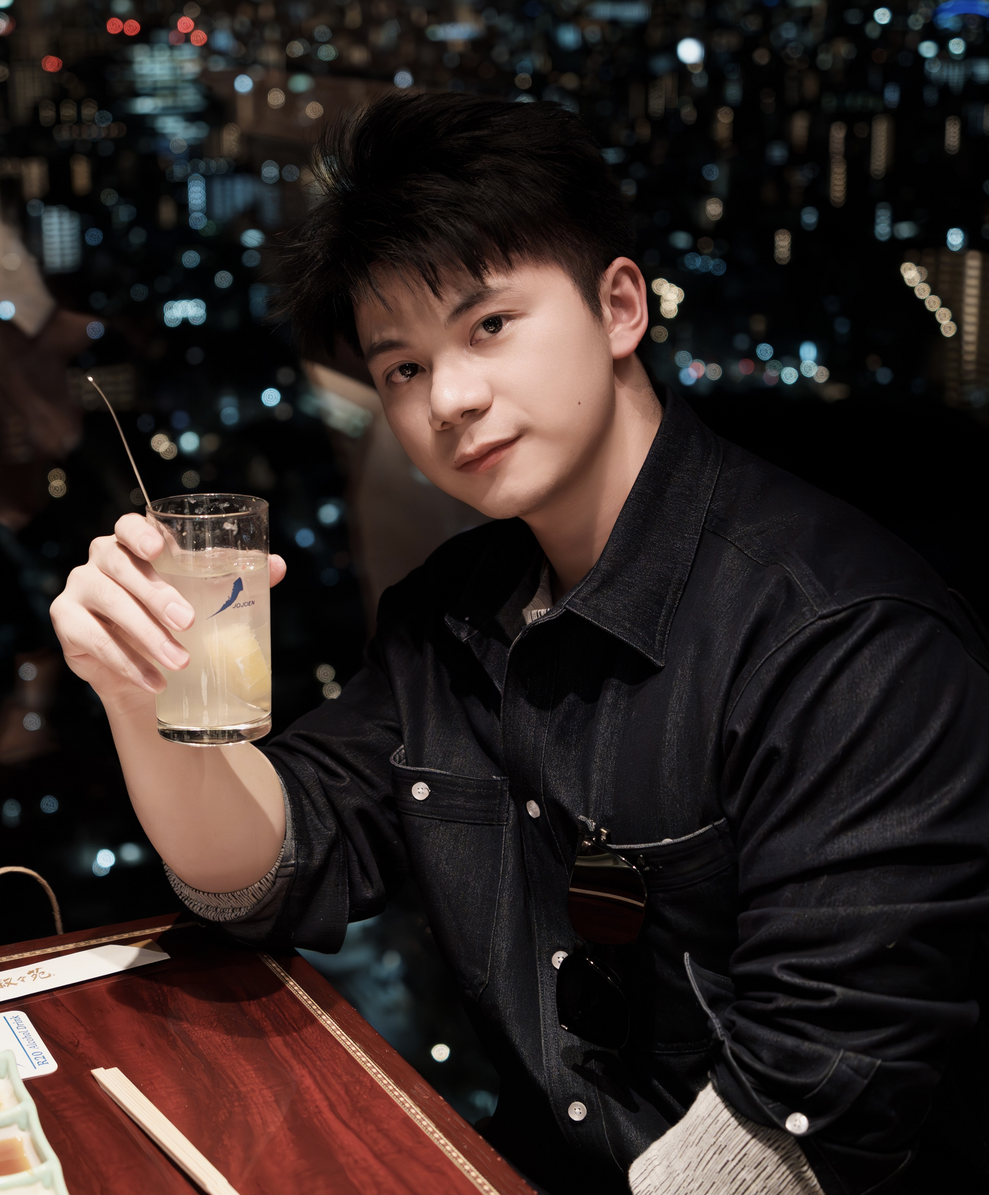
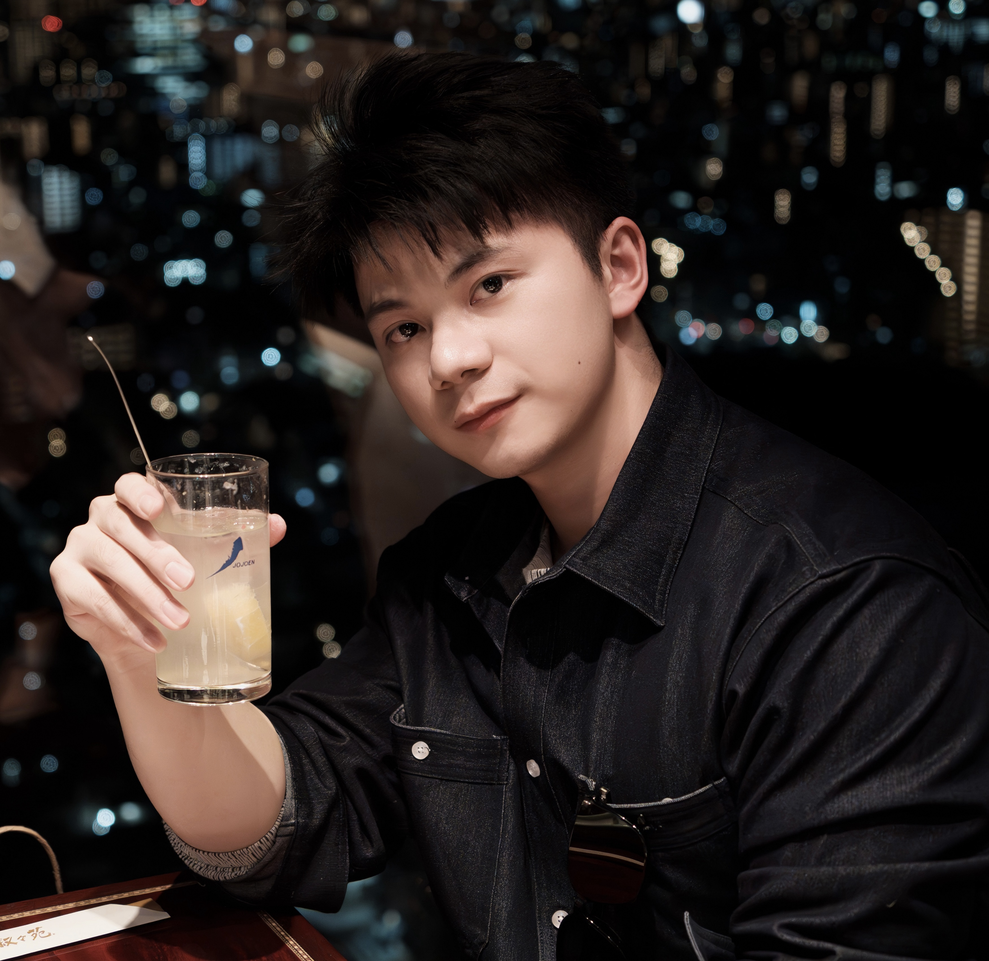
update arena

diff --git a/_news/news_2025.md b/_news/news_2025.md
@@ -4,7 +4,7 @@ date: 2024-10-02 08:00:00+0800
 inline: true
 ---
 
-🎉 Paper <a href="http://arxiv.org/abs/2405.15324">Continuously Learning, Adapting, and Improving: A Dual-Process Approach to Autonomous Driving</a> is accepted by <i>NeurIPS 2024</i> ! <br>
+🎉 Paper <a href="https://pjlab-adg.github.io/DriveArena/">DriveArena: A Closed-loop Generative Simulation Platform for Autonomous Driving</a> is accepted by <i>ICCV 2025</i> ! <br>
 
 <!-- 📢 We have also developed a closed-loop high-fidelity simulation platform called [DriveArena](http://arxiv.org/abs/2408.00415)! -->
 
